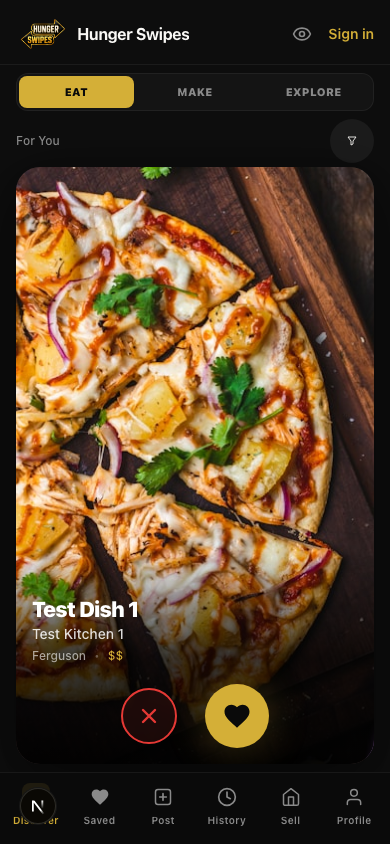
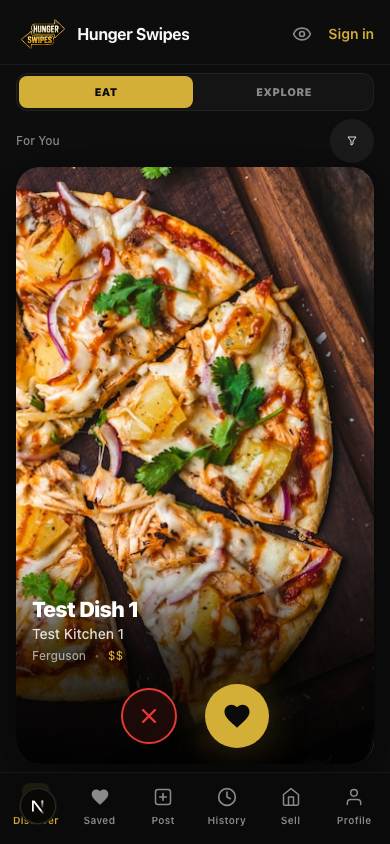
Prepare Hunger Swipes Build 18 release

diff --git a/app/api/dishes/route.ts b/app/api/dishes/route.ts
@@ -1,7 +1,7 @@
 import { NextRequest, NextResponse } from 'next/server'
 import { getSupabaseAdmin } from '@/lib/supabase-admin'
 import { getRequestUser } from '@/lib/server-auth'
-import { boundedLimit, buildDiscoverDeck, diversifyFoodOrder, isOwnedManagedPhotoUrl, mapCommunityPost, mapOfficialDish, mapPlaceStagingCard } from '@/lib/food'
+import { boundedLimit, buildDiscoverDeck, diversifyFoodOrder, isOwnedManagedPhotoUrl, isPublishableDishName, mapCommunityPost, mapOfficialDish, mapPlaceStagingCard } from '@/lib/food'
 import { haversineMiles } from '@/lib/geo'
 import { normalizeDishAllergens, normalizeDishIngredients, normalizeServingSize } from '@/lib/dish-details'
 
@@ -160,7 +160,16 @@ export async function GET(request: NextRequest) {
         const representedPlaceIds = new Set((official || []).map((d: any) => d.place_id).filter(Boolean))
         placeStagingItems = (placeRows || [])
           .filter((row: any) => !representedPlaceIds.has(row.id))
-          .map((row: any) => mapPlaceStagingCard(row, row.candidate?.[0] || row.candidate))
+          .map((row: any) => {
+            const candidates = (Array.isArray(row.candidate) ? row.candidate : [row.candidate]).filter(Boolean)
+            // A place can retain several review candidates. Only the candidate whose
+            // image is actually staged may name the public card; never pair another
+            // candidate's label with the displayed image.
+            const candidate = candidates.find((item: any) => item.image_url === row.temporary_staging_place_image_url)
+            return { row, candidate }
+          })
+          .filter(({ candidate }: any) => candidate && isPublishableDishName(candidate.dish_name))
+          .map(({ row, candidate }: any) => mapPlaceStagingCard(row, candidate))
       }
     }
 

diff --git a/tests/launch-recovery.test.ts b/tests/launch-recovery.test.ts
@@ -84,6 +84,12 @@ test('MAKE has an honest empty state and retired experiences redirect', () => {
   assert.match(read('../app/visits/layout.tsx'), /redirect\('\/history'\)/)
 })
 
+test('MAKE stays out of primary Discover until a publish-ready recipe exists', () => {
+  const modeSwitch = read('../app/components/DiscoveryModeSwitch.tsx')
+  assert.doesNotMatch(modeSwitch, /value:\s*'make',\s*label:\s*'MAKE'/)
+  assert.match(modeSwitch, /saved === 'make'/)
+})
+
 test('verified hours and outbound actions are connected without checkout', () => {
   const food = read('../lib/food.ts')
   const actions = read('../app/components/PlaceActions.tsx')
@@ -107,11 +113,11 @@ test('Swipe Bucks and replay remain idempotent', () => {
   assert.match(guard, /unique\s*\(\s*user_id,\s*idempotency_key\s*\)/)
 })
 
-test('iOS Build 17 keeps release signing and static-export safeguards', () => {
+test('iOS Build 18 keeps release signing and static-export safeguards', () => {
   const project = read('../ios/App/App.xcodeproj/project.pbxproj')
   const info = read('../ios/App/App/Info.plist')
   const exporter = read('../scripts/build-ios-export.mjs')
-  assert.match(project, /CURRENT_PROJECT_VERSION = 17;/)
+  assert.match(project, /CURRENT_PROJECT_VERSION = 18;/)
   assert.match(project, /DEVELOPMENT_TEAM = 39A3BYR7NN;/)
   assert.match(project, /CODE_SIGN_ENTITLEMENTS = App\/App\.entitlements;/)
   assert.match(info, /<key>ITSAppUsesNonExemptEncryption<\/key>\s*<false\/>/)

diff --git a/app/components/DiscoveryModeSwitch.tsx b/app/components/DiscoveryModeSwitch.tsx
@@ -4,9 +4,10 @@ import { useEffect, useState } from 'react'
 
 type DiscoveryMode = 'eat' | 'make' | 'explore'
 
+// MAKE remains implemented behind the API and seller tools, but stays out of
+// primary Discover until a real approved recipe is publish-ready.
 const MODES: { value: DiscoveryMode; label: string }[] = [
   { value: 'eat', label: 'EAT' },
-  { value: 'make', label: 'MAKE' },
   { value: 'explore', label: 'EXPLORE' },
 ]
 
@@ -26,6 +27,9 @@ export function DiscoveryModeSwitch({ value, onChange }: Props) {
       const saved = localStorage.getItem(STORAGE_KEY) as DiscoveryMode | null
       if (saved && MODES.some((m) => m.value === saved) && saved !== value) {
         onChange(saved)
+      } else if (saved === 'make') {
+        localStorage.setItem(STORAGE_KEY, 'eat')
+        if (value !== 'eat') onChange('eat')
       }
     } catch {
       // localStorage unavailable
@@ -74,6 +78,9 @@ export function useStoredDiscoveryMode(defaultMode: DiscoveryMode = 'eat') {
       const saved = localStorage.getItem(STORAGE_KEY) as DiscoveryMode | null
       if (saved && MODES.some((m) => m.value === saved)) {
         setMode(saved)
+      } else if (saved === 'make') {
+        localStorage.setItem(STORAGE_KEY, 'eat')
+        setMode('eat')
       }
     } catch {
       // ignore

diff --git a/tests/foundation.test.ts b/tests/foundation.test.ts
@@ -1,6 +1,6 @@
 import test from 'node:test'
 import assert from 'node:assert/strict'
-import { boundedLimit, formatOptionalFoodPrice, isHttpsUrl, normalizeContentKind } from '../lib/food.ts'
+import { boundedLimit, formatOptionalFoodPrice, isHttpsUrl, isPublishableDishName, normalizeContentKind } from '../lib/food.ts'
 import { hasValidImageSignature, MAX_IMAGE_BYTES, validateImageMetadata } from '../lib/upload-validation.ts'
 import { mapOsmElement } from '../lib/openstreetmap-places.ts'
 import { findDuplicate } from '../lib/place-dedup.ts'
@@ -28,6 +28,12 @@ test('food prices are hidden when unknown or zero', () => {
   assert.equal(formatOptionalFoodPrice(undefined), null)
   assert.equal(formatOptionalFoodPrice(0), null)
   assert.equal(formatOptionalFoodPrice(12.5), '$12.50')
+})
+
+test('release feeds reject placeholder dish names', () => {
+  assert.equal(isPublishableDishName('TBD from menu'), false)
+  assert.equal(isPublishableDishName('placeholder'), false)
+  assert.equal(isPublishableDishName('Scorned Buffalo'), true)
 })
 
 test('public links require HTTPS', () => {

diff --git a/app/swipe/page.tsx b/app/swipe/page.tsx
@@ -59,7 +59,7 @@ const REFILL_AT = 5
 const MATCH_CONFIRMATION_SECONDS = 15
 const DISCOVER_TOUR_KEY = 'hs_discover_tour_v1'
 const DISCOVER_TOUR_STEPS: TutorialStep[] = [
-  { targetId: 'discover-mode-switch', title: 'Pick your mood', body: 'EAT finds food to order. MAKE finds recipes. EXPLORE finds nearby food spots.', placement: 'below' },
+  { targetId: 'discover-mode-switch', title: 'Pick your mood', body: 'EAT finds dishes. EXPLORE finds nearby food spots.', placement: 'below' },
   { targetId: 'discover-swipe-card', title: 'Choose what looks good', body: 'Swipe right when you want it. Sign in to save it. Swipe left to pass.', placement: 'center', dimBackground: true },
   { targetId: 'mobile-nav', title: 'Get around', body: 'Discover, save, post, review your history, sell, or manage your profile.', placement: 'above' },
   { targetId: 'discover-filter-button', title: 'Make it yours', body: 'Narrow food by cuisine, diet, price, distance, and more.', placement: 'below' },

diff --git a/lib/food.ts b/lib/food.ts
@@ -17,6 +17,14 @@ export function formatOptionalFoodPrice(value: unknown) {
   return Number.isFinite(price) && price > 0 ? `$${price.toFixed(2)}` : null
 }
 
+/** Release feeds require a real dish label, not an intake placeholder. */
+export function isPublishableDishName(value: unknown) {
+  if (typeof value !== 'string') return false
+  const name = value.trim()
+  if (!name) return false
+  return !/^(?:tbd|unknown|placeholder)(?:\s+from\s+menu)?$/i.test(name)
+}
+
 const FOOD_FAMILIES: Array<[string, RegExp]> = [
   ['pizza', /\b(pizza|pepperoni|calzone)\b/],
   ['burger', /\b(burger|cheeseburger|hamburger|slider)\b/],

diff --git a/tests/e2e/swipe.spec.ts b/tests/e2e/swipe.spec.ts
@@ -54,7 +54,7 @@ test('homepage enters Discover directly with one mobile navigation bar', async (
   await expect(page.getByRole('heading', { name: 'Test Dish 1' })).toBeVisible()
   await expect(page.getByTestId('mobile-nav')).toHaveCount(1)
   await expect(page.getByRole('button', { name: 'EAT' })).toBeVisible()
-  await expect(page.getByRole('button', { name: 'MAKE' })).toBeVisible()
+  await expect(page.getByRole('button', { name: 'MAKE' })).toHaveCount(0)
   await expect(page.getByRole('button', { name: 'EXPLORE' })).toBeVisible()
 })
 

diff --git a/ios-handoff/APP_STORE_SUBMISSION.md b/ios-handoff/APP_STORE_SUBMISSION.md
@@ -63,7 +63,7 @@ Screenshots must show production-like content, must not contain debug overlays, 
 ## Release selections
 
 - Version: 1.0
-- Build: 17
+- Build: 18
 - Platform: iPhone only
 - Minimum iOS: 15.0
 - Category: Food & Drink
